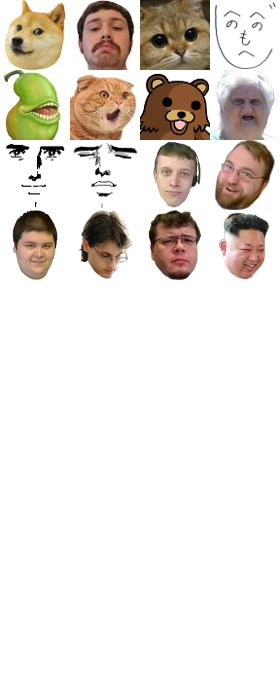
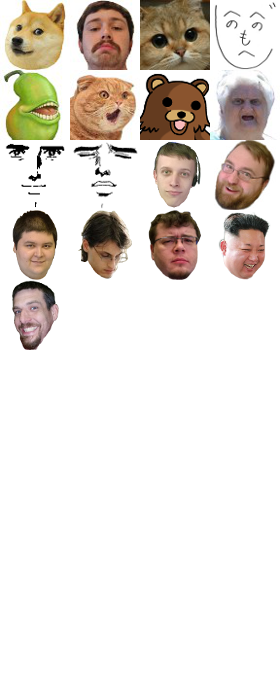
Add a lot of new v4c emotes
Several dozen new v4c emotes to complement the handful we've had for
quite some time now.
Also added a new face to hotgluemoticons.

Changed region(s): [[0.0286, 0.39, 0.2286, 0.51]]

diff --git a/JabbR/Chat.emoji.js b/JabbR/Chat.emoji.js
@@ -5,10 +5,10 @@ var EmojiIcons;
     "use strict";
     
     var validEmoji = { "+1": true, "-1": true, "0": true, "1": true, "109": true, "2": true, "3": true, "4": true, "5": true, "6": true, "7": true, "8": true, "8ball": true, "9": true, "a": true, "ab": true, "airplane": true, "alien": true, "ambulance": true, "angel": true, "anger": true, "angry": true, "apple": true, "aquarius": true, "aries": true, "arrow_backward": true, "arrow_down": true, "arrow_forward": true, "arrow_left": true, "arrow_lower_left": true, "arrow_lower_right": true, "arrow_right": true, "arrow_up": true, "arrow_upper_left": true, "arrow_upper_right": true, "art": true, "astonished": true, "atm": true, "b": true, "baby": true, "baby_chick": true, "baby_symbol": true, "balloon": true, "bamboo": true, "bank": true, "barber": true, "baseball": true, "basketball": true, "bath": true, "bear": true, "beer": true, "beers": true, "beginner": true, "bell": true, "bento": true, "bike": true, "bikini": true, "bird": true, "birthday": true, "black_square": true, "blue_car": true, "blue_heart": true, "blush": true, "boar": true, "boat": true, "bomb": true, "book": true, "boot": true, "bouquet": true, "bow": true, "bowtie": true, "boy": true, "bread": true, "briefcase": true, "broken_heart": true, "bug": true, "bulb": true, "bullettrain_front": true, "bullettrain_side": true, "bus": true, "busstop": true, "cactus": true, "cake": true, "calling": true, "camel": true, "camera": true, "cancer": true, "capricorn": true, "car": true, "cat": true, "cd": true, "chart": true, "checkered_flag": true, "cherry_blossom": true, "chicken": true, "christmas_tree": true, "church": true, "cinema": true, "city_sunrise": true, "city_sunset": true, "clap": true, "clapper": true, "clock1": true, "clock10": true, "clock11": true, "clock12": true, "clock2": true, "clock3": true, "clock4": true, "clock5": true, "clock6": true, "clock7": true, "clock8": true, "clock9": true, "closed_umbrella": true, "cloud": true, "clubs": true, "cn": true, "cocktail": true, "coffee": true, "cold_sweat": true, "computer": true, "confounded": true, "congratulations": true, "construction": true, "construction_worker": true, "convenience_store": true, "cool": true, "cop": true, "copyright": true, "couple": true, "couple_with_heart": true, "couplekiss": true, "cow": true, "crossed_flags": true, "crown": true, "cry": true, "cupid": true, "currency_exchange": true, "curry": true, "cyclone": true, "dancer": true, "dancers": true, "dango": true, "dart": true, "dash": true, "de": true, "department_store": true, "diamonds": true, "disappointed": true, "dog": true, "dolls": true, "dolphin": true, "dress": true, "dvd": true, "ear": true, "ear_of_rice": true, "egg": true, "eggplant": true, "eight_pointed_black_star": true, "eight_spoked_asterisk": true, "elephant": true, "email": true, "es": true, "european_castle": true, "exclamation": true, "eyes": true, "factory": true, "fallen_leaf": true, "fast_forward": true, "fax": true, "fearful": true, "feelsgood": true, "feet": true, "ferris_wheel": true, "finnadie": true, "fire": true, "fire_engine": true, "fireworks": true, "fish": true, "fist": true, "flags": true, "flushed": true, "football": true, "fork_and_knife": true, "fountain": true, "four_leaf_clover": true, "fr": true, "fries": true, "frog": true, "fuelpump": true, "gb": true, "gem": true, "gemini": true, "ghost": true, "gift": true, "gift_heart": true, "girl": true, "goberserk": true, "godmode": true, "golf": true, "green_heart": true, "grey_exclamation": true, "grey_question": true, "grin": true, "guardsman": true, "guitar": true, "gun": true, "haircut": true, "hamburger": true, "hammer": true, "hamster": true, "hand": true, "handbag": true, "hankey": true, "hash": true, "headphones": true, "heart": true, "heart_decoration": true, "heart_eyes": true, "heartbeat": true, "heartpulse": true, "hearts": true, "hibiscus": true, "high_heel": true, "horse": true, "hospital": true, "hotel": true, "hotsprings": true, "house": true, "hurtrealbad": true, "icecream": true, "id": true, "ideograph_advantage": true, "imp": true, "information_desk_person": true, "iphone": true, "it": true, "jack_o_lantern": true, "japanese_castle": true, "joy": true, "jp": true, "key": true, "kimono": true, "kiss": true, "kissing_face": true, "kissing_heart": true, "koala": true, "koko": true, "kr": true, "leaves": true, "leo": true, "libra": true, "lips": true, "lipstick": true, "lock": true, "loop": true, "loudspeaker": true, "love_hotel": true, "mag": true, "mahjong": true, "mailbox": true, "man": true, "man_with_gua_pi_mao": true, "man_with_turban": true, "maple_leaf": true, "mask": true, "massage": true, "mega": true, "memo": true, "mens": true, "metal": true, "metro": true, "microphone": true, "minidisc": true, "mobile_phone_off": true, "moneybag": true, "monkey": true, "monkey_face": true, "moon": true, "mortar_board": true, "mount_fuji": true, "mouse": true, "movie_camera": true, "muscle": true, "musical_note": true, "nail_care": true, "necktie": true, "new": true, "no_good": true, "no_smoking": true, "nose": true, "notes": true, "o": true, "o2": true, "ocean": true, "octocat": true, "octopus": true, "oden": true, "office": true, "ok": true, "ok_hand": true, "ok_woman": true, "older_man": true, "older_woman": true, "open_hands": true, "ophiuchus": true, "palm_tree": true, "parking": true, "part_alternation_mark": true, "pencil": true, "penguin": true, "pensive": true, "persevere": true, "person_with_blond_hair": true, "phone": true, "pig": true, "pill": true, "pisces": true, "point_down": true, "point_left": true, "point_right": true, "point_up": true, "point_up_2": true, "police_car": true, "poop": true, "post_office": true, "postbox": true, "pray": true, "princess": true, "punch": true, "purple_heart": true, "question": true, "rabbit": true, "racehorse": true, "radio": true, "rage": true, "rage1": true, "rage2": true, "rage3": true, "rage4": true, "rainbow": true, "raised_hands": true, "ramen": true, "red_car": true, "red_circle": true, "registered": true, "relaxed": true, "relieved": true, "restroom": true, "rewind": true, "ribbon": true, "rice": true, "rice_ball": true, "rice_cracker": true, "rice_scene": true, "ring": true, "rocket": true, "roller_coaster": true, "rose": true, "ru": true, "runner": true, "sa": true, "sagittarius": true, "sailboat": true, "sake": true, "sandal": true, "santa": true, "satellite": true, "satisfied": true, "saxophone": true, "school": true, "school_satchel": true, "scissors": true, "scorpius": true, "scream": true, "seat": true, "secret": true, "shaved_ice": true, "sheep": true, "shell": true, "ship": true, "shipit": true, "shirt": true, "shit": true, "shoe": true, "signal_strength": true, "six_pointed_star": true, "ski": true, "skull": true, "sleepy": true, "slot_machine": true, "smile": true, "smiley": true, "smirk": true, "smoking": true, "snake": true, "snowman": true, "sob": true, "soccer": true, "space_invader": true, "spades": true, "spaghetti": true, "sparkler": true, "sparkles": true, "speaker": true, "speedboat": true, "squirrel": true, "star": true, "star2": true, "stars": true, "station": true, "statue_of_liberty": true, "stew": true, "strawberry": true, "sunflower": true, "sunny": true, "sunrise": true, "sunrise_over_mountains": true, "surfer": true, "sushi": true, "suspect": true, "sweat": true, "sweat_drops": true, "swimmer": true, "syringe": true, "tada": true, "tangerine": true, "taurus": true, "taxi": true, "tea": true, "telephone": true, "tennis": true, "tent": true, "thumbsdown": true, "thumbsup": true, "ticket": true, "tiger": true, "tm": true, "toilet": true, "tokyo_tower": true, "tomato": true, "tongue": true, "top": true, "tophat": true, "traffic_light": true, "train": true, "trident": true, "trollface": true, "trophy": true, "tropical_fish": true, "truck": true, "trumpet": true, "tshirt": true, "tulip": true, "tv": true, "u5272": true, "u55b6": true, "u6307": true, "u6708": true, "u6709": true, "u6e80": true, "u7121": true, "u7533": true, "u7a7a": true, "umbrella": true, "unamused": true, "underage": true, "unlock": true, "up": true, "us": true, "v": true, "vhs": true, "vibration_mode": true, "virgo": true, "vs": true, "walking": true, "warning": true, "watermelon": true, "wave": true, "wc": true, "wedding": true, "whale": true, "wheelchair": true, "white_square": true, "wind_chime": true, "wink": true, "wink2": true, "wolf": true, "woman": true, "womans_hat": true, "womens": true, "x": true, "yellow_heart": true, "zap": true, "zzz": true };
-    var validv4c = { "ducktart": "dooktart.png", "ready": "ready.gif", "birry": "ztop.gif", "vdog": "cat.gif", "gaben": "zgabe.gif", "3s": "seal.png", "burd": "birdy.gif", "snoop": "snoop.gif", "jimmies": "jimmy.gif", "sanic": "sonicx.png", "burgirl": "ss.gif", "dilbert": "dilbert.gif", "deepdarkfantasy": "fantasy.gif", "bioware": "biogurl.gif", "shazbot": "33.png", "bestkorea": "kim.gif", "hitoame": "shower.gif", "duane": "duane.gif", "keke": "keke6.png", "uncle": "VffoS.jpg", "reshiram": "ee.gif", "push": "push.gif", "autism": "a.gif", "juggalo": "ll.gif", "stanza": "heh.png", "bestgames": "pstriple.png", "gamestop": "spekettle.gif", "teto": "oz.gif", "fothegrove": "grove.gif", "aliens": "aliens.gif", "go": "zgo.gif", "pomf": "pomf.png", "kreayshawn": "kray.png", "bodywash": "bodywash.png", "goblinu": "zgobz.jpg", "feel": "1ducktart.jpg", "valien": "ssd.gif", "2spooky4me": "spooky.gif", "2spooky": "spooky.gif", "gooby": "o2XNE.jpg", "dosh": "dsdasd.png", "8bitdose": "wee2.gif", "costanza": "heh.png" };
+    var validv4c = { "ducktart": "dooktart.png", "ready": "ready.gif", "birry": "ztop.gif", "vdog": "cat.gif", "gaben": "zgabe.gif", "3s": "seal.png", "burd": "birdy.gif", "snoop": "snoop.gif", "jimmies": "jimmy.gif", "sanic": "sonicx.png", "burgirl": "ss.gif", "dilbert": "dilbert.gif", "deepdarkfantasy": "fantasy.gif", "bioware": "biogurl.gif", "shazbot": "33.png", "bestkorea": "kim.gif", "hitoame": "shower.gif", "duane": "duane.gif", "keke": "keke6.png", "uncle": "VffoS.jpg", "reshiram": "ee.gif", "push": "push.gif", "autism": "a.gif", "juggalo": "ll.gif", "stanza": "heh.png", "bestgames": "pstriple.png", "gamestop": "spekettle.gif", "teto": "oz.gif", "fothegrove": "grove.gif", "aliens": "aliens.gif", "go": "zgo.gif", "pomf": "pomf.png", "kreayshawn": "kray.png", "bodywash": "bodywash.png", "goblinu": "zgobz.jpg", "feel": "feel.png", "valien": "ssd.gif", "2spooky4me": "spooky.gif", "gooby": "o2XNE.jpg", "dosh": "dsdasd.png", "8bitdose": "wee2.gif", "costanza": "heh.png", "america": "america.gif", "babyface": "babyface.gif", "babyguitar": "babyguitar.gif", "bearfight": "bearfight.gif", "bogs": "bogs.png", "boom": "boom.png", "brobill": "brobill.gif", "chen": "chen.png", "dante": "dante.png", "data": "data.gif", "datass": "datass.gif", "dewbunker": "dewbunker.gif", "dewritos": "dewritos.jpg", "doingitwell": "doingitwell.png", "doot": "doot.gif", "dreck": "dreck.png", "el": "el.gif", "facepalm": "facepalm.png", "feelsgud": "feelsgud.png", "fichdich": "fichdich.png", "fresh": "fresh.gif", "gigaduane": "gigaduane.gif", "happening": "happening.gif", "haveaseat": "haveaseat.png", "heero": "heero.png", "idontwantthat": "idontwantthat.png", "jaffa": "jaffa.png", "jew": "jew.gif", "jii": "jii.png", "kek": "kek.png", "kfc": "kfc.gif", "kitty": "kitty.gif", "loading": "loading.gif", "manboss": "manboss.gif", "meeku": "meeku.png", "mfw": "mfw.png", "miku": "miku.gif", "miku2": "miku2.gif", "morefresh": "morefresh.gif", "mysides": "mysides.png", "nice": "nice.png", "nofun": "nofun.png", "nogaems": "nogaems.gif", "nope": "nope.gif", "obama": "obama.gif", "ohlawd": "ohlawd.png", "oo": "oo.gif", "osama": "osama.png", "otter": "otter.gif", "pekaface": "pekaface.png", "pikminu": "pikminu.png", "plzgo": "plzgo.png", "praise": "praise.png", "pumpkindance": "pumpkindance.gif", "raging": "raging.png", "rattle": "rattle.gif", "ravi": "ravi.gif", "raw": "raw.png", "remove": "remove.gif", "rip": "rip.png", "satan": "satan.gif", "science": "science.gif", "skeleton": "skeleton.gif", "slam": "slam.png", "slav": "slav.gif", "spherical": "spherical.png", "spurdance": "spurdance.gif", "spurdo": "spurdo.png", "stepfather": "stepfather.png", "stop": "stop.png", "swerve": "swerve.png", "tails": "tails.png", "thed": "thed.png", "turkey": "turkey.png", "twerk": "twerk.gif", "tyrone": "tyrone.png", "umirin": "umirin.jpg", "usa": "usa.gif", "wabbit": "wabbit.png", "whatastory": "whatastory.png", "why": "why.png", "wow": "wow.png" };
     var validPony = { "ajlie": "a", "priceless": "a", "flutterjerk": "a", "flutterroll": "a", "twipride": "a", "celestiamad": "a", "twicrazy": "a", "spikemeh": "a", "lunateehee": "a", "lunawait": "a", "derpwizard": "a", "abmeh": "a", "ajhappy": "a", "pinkiefear": "a", "twibeam": "a", "scootaderp": "a", "raritydaww": "a", "scootacheer": "a", "swagintosh": "a", "pinkieawe": "a", "ajsup": "a", "flutterwhoa": "a", "rdcry": "a", "silverspoon": "a", "ohcomeon": "a", "ppcute": "a", "abbored": "a", "rarityreally": "a", "raritynews": "a", "sbbook": "a", "scootaplease": "a", "applegasp": "a", "twiright": "a", "celestiawut": "a", "grannysmith": "a", "rarishock": "a", "shiningarmor": "a", "chrysalis": "a", "cadence": "a", "applederp": "a", "flutterfear": "b", "ppboring": "b", "rarityyell": "b", "fluttershy": "b", "ajcower": "b", "ajsly": "b", "eeyup": "b", "rdsmile": "b", "fluttersrs": "b", "raritydress": "b", "takealetter": "b", "rdwut": "b", "ppshrug": "b", "spikenervous": "b", "noooo": "b", "dj": "b", "fluttershh": "b", "flutteryay": "b", "squintyjack": "b", "spikepushy": "b", "ajugh": "b", "raritywut": "b", "dumbfabric": "b", "raritywhy": "b", "trixiesmug": "b", "flutterwink": "b", "rarityannoyed": "b", "soawesome": "b", "ajwut": "b", "twisquint": "b", "raritywhine": "b", "rdcool": "b", "abwut": "b", "manspike": "b", "cockatrice": "b", "facehoof": "b", "rarityjudge": "b", "rarityprimp": "b", "twirage": "b", "ppseesyou": "b", "rdsitting": "c", "rdhappy": "c", "rdannoyed": "c", "trixiesad": "c", "twismug": "c", "twismile": "c", "twistare": "c", "changeling": "c", "ohhi": "c", "party": "c", "hahaha": "c", "rdscared": "c", "flutterblush": "c", "gross": "c", "derpyhappy": "c", "twidaww": "c", "ajfrown": "c", "hmmm": "c", "pinkiejoy": "c", "whattheflut": "c", "raritysad": "c", "fabulous": "c", "derp": "c", "cadencesmile": "c", "louder": "c", "lunasad": "c", "derpyshock": "c", "shiningpride": "c", "pinkamina": "c", "loveme": "c", "lunagasp": "c", "fluttercry": "c", "scootaloo": "c", "celestia": "c", "angelglare": "c", "sneakybelle": "c", "allmybits": "c", "zecora": "c", "photofinish": "c", "ppreally": "c", "stonie": "d", "pinkiehigh": "d", "rbtrippin": "d", "spikehigh": "d", "pervertedaj": "d", "twihigh": "d", "fluttersqueak": "d", "happyrarity": "d", "bakedrarity": "d", "rbhigh": "d", "ajhuh": "d", "flutterfree": "d", "celestreeia": "d", "awwshit": "d", "treepony": "d", "rbomg": "d", "mobboss": "d", "opalescence": "d", "sneakiepinkie": "d", "dirigible": "d", "trixiehigh": "d", "twiderp": "d", "whoovesing": "d", "twiheh": "d", "flutterhigh": "d", "derpyhigh": "d", "flutteryeah": "d", "spikegimmie": "d", "sirderp": "d", "twiblah": "d", "fluttersmoke": "d", "braeburnhuh": "d", "bakedspike": "d", "lunasly": "d", "derpinkie": "d", "lunasilly": "d", "rbreally": "d", "rarityhuh": "d", "bluebowl": "d", "fillytgap": "e", "rdhuh": "e", "snails": "e", "twisad": "e", "lyra": "e", "bonbon": "e", "spitfire": "e", "lunamad": "e", "cutealoo": "e", "happyluna": "e", "sotrue": "e", "discordsad": "e", "wahaha": "e", "sbstare": "e", "punchdrunk": "e", "maud": "e", "huhhuh": "e", "absmile": "e", "dealwithit": "e", "pinkiepout": "e", "nmm": "e", "whooves": "e", "rdsalute": "e", "octavia": "e", "colgate": "e", "cheerilee": "e", "ajbaffle": "e", "abhuh": "e", "thehorror": "e", "twiponder": "e", "spikewtf": "e", "awwyeah": "e", "gilda": "e", "discentia": "e", "manlytears": "e" };
 
-    var validHotglue = { "doge": "1", "fertilemeadors": "1", "game": "1", "henohenomoheji": "1", "lolwut": "1", "moar": "1", "pedobear": "1", "wat": "1", "yaranaika1": "1", "yaranaika2": "1", "derika": "1", "babz": "1", "bson": "1", "shanz": "1", "jamesy": "1", "kimjongwhere": "1" };
+    var validHotglue = { "doge": "1", "fertilemeadors": "1", "game": "1", "henohenomoheji": "1", "lolwut": "1", "moar": "1", "pedobear": "1", "wat": "1", "yaranaika1": "1", "yaranaika2": "1", "derika": "1", "babz": "1", "bson": "1", "shanz": "1", "jamesy": "1", "kimjongwhere": "1", "doobie": "1" };
     var validYukkuri = {
         "marisa": true, "marisakiss": true, "marisalol": true, "marisablank": true, "marisablush": true, "marisasad": true, "marisacry": true, "marisamad": true, "marisaangry": true, "marisahappy": true, "marisacute": true, "marisawhat": true, "marisaannoy": true, "marisanervous": true, "marisashock": true, "marisasmile": true,
         "reimu": true, "reimukiss": true, "reimulol": true, "reimublank": true, "reimublush": true, "reimusad": true, "reimucry": true, "reimumad": true, "reimuangry": true, "reimuhappy": true, "reimucute": true, "reimuwhat": true, "reimuannoy": true, "reimunervous": true, "reimushock": true, "reimusmile": true

diff --git a/JabbR/Content/hotgluemoticon.css b/JabbR/Content/hotgluemoticon.css
@@ -1,4 +1,4 @@
-.hotgluemoticon { background-repeat: no-repeat; background-repeat: no-repeat; position: relative; display: inline-block; top: 5px; margin-top: -5px; padding: 0; }
+.hotgluemoticon { background-repeat: no-repeat; position: relative; display: inline-block; top: 5px; margin-top: -5px; padding: 0; }
 td.hotgluemoticon { margin-top: 0; }
 .hotgluemoticon-1 { background-image: url(images/hotglue/h1.png); width: 70px; height: 70px; }
 
@@ -18,8 +18,8 @@ td.hotgluemoticon { margin-top: 0; }
 .hotgluemoticon-shanz { background-position: -70px -210px; }
 .hotgluemoticon-jamesy { background-position: -140px -210px; }
 .hotgluemoticon-kimjongwhere { background-position: -210px -210px; }
-/*.hotgluemoticon-raritydaww { background-position: -0px -280px; }
-.hotgluemoticon-scootacheer { background-position: -70px -280px; }
+.hotgluemoticon-doobie { background-position: -0px -280px; }
+/*.hotgluemoticon-scootacheer { background-position: -70px -280px; }
 .hotgluemoticon-swagintosh { background-position: -140px -280px; }
 .hotgluemoticon-pinkieawe { background-position: -210px -280px; }
 .hotgluemoticon-ajsup { background-position: -0px -350px; }

diff --git a/JabbR/Content/ponymoticon.css b/JabbR/Content/ponymoticon.css
@@ -1,4 +1,4 @@
-.ponymoticon { background-repeat: no-repeat; background-repeat: no-repeat; position: relative; display: inline-block; top: 5px; margin-top: -5px; padding: 0; }
+.ponymoticon { background-repeat: no-repeat; position: relative; display: inline-block; top: 5px; margin-top: -5px; padding: 0; }
 td.ponymoticon { margin-top: 0; }
 .ponymoticon-a { background-image: url(images/ponymoticon/a.png); width: 70px; height: 70px; }
 .ponymoticon-b { background-image: url(images/ponymoticon/b.png); width: 70px; height: 70px; }
